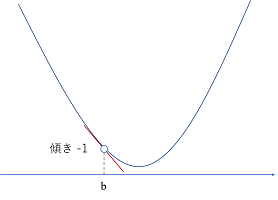
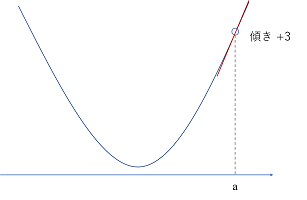
微分パートの推敲完了

diff --git a/source/source/notebooks/1_md.md b/source/source/notebooks/1_md.md
@@ -1,82 +1,80 @@
 # 機械学習に必要な数学の基礎
 
+この章では、ディープラーニングを含めた機械学習に必要な微分、線形代数、統計の3つについて、よく使う部分を完結に紹介します。
+
 
 
 ## 微分
 
-まず基礎数学編のはじまりとして、微分について学んでいく。微分は高校で習うが、結局実社会で使うことはほとんどなく、微分は何に使うのか？と不明確なまま終わってしまっている人も少なくないだろう。そこで、まずは機械学習との結びつきを紹介してから、その数式について解説していく。
+微分は高校で習いますが、社会で使うことはほとんどなく、微分は何に使うのかと不明確なまま終わってしまっている人も少なくないだろう。機械学習においては**パラメータ更新**の際に大きなカギとなる考え方であり、その理由について最初に知ってから、数式を理解していこう。
 
-### なぜ微分が必要か？
+### 微分はどこで使われているか
 
-微分は何に使えるか？と問うと何人の人が答えられるだろうか。受講生にこの質問を投げかけると手が上がるのは10%未満である。高校では全員が学ぶにもかかわらず、これは由々しき事態である。
-
-それでは、まず微分が何に使えるのかの質問の前に、微分は何が求まるのかを考えよう。高校の時には微分では何が求まると習っただろうか。その答えは「接線の傾き」である。
+「微分は何に使えるか」をここでは考えることにしよう。微分が何に使えるのかの質問の前に、**微分は何が求まるのか**をまず考えよう。高校の時には微分では何が求まると習ったかというと、その答えは**接線の傾き**である。数値も交えて具体的に見ていこう。
 
 <img src="images/1/01.png" height="200px">
 
-具体的に見ていこう。この図の関数において、$a$という点での接線の傾きというのは具体的にはこの赤い直線の傾きを指す。具体的な数値で考えるほうがわかりやすいためここでは傾き3としている。
+この図の関数において、$a$ の点における接線の傾きというのは赤い直線の傾きを指し、例えば、傾きが+3のようになっている。+3という値は例ですが、右肩上がりな直線の傾きは正の値になります。
 
 <img src="images/1/02.png" height="200px">
 
-例えば、この$b$の点においては、接線の傾きは右肩下がりであるため、負の値であり、傾き-1のようになっている。微分では、この各点における「+3」や「-1」といった傾きを求めることができるのである。
+そして、この $b$ の点においては、接線の傾きは右肩下がりであるため、接戦の傾きは負の値であり、傾き-1のようになっている。微分では、この各点における「+3」や「-1」といった傾きを求めることができます。
 
-それでは、本題に戻そう。この各点の傾きが求まったら何が嬉しいのだろうか。結局はこの問いに答えられなければ意味がないのである。正直傾きが求まると聞いたところで、使い道が浮かばない。それは当然である。なぜなら、何かを達成したいという目標がなければ、どれだけ良いツールがあったとしてもその使い道が明確にならないためである。
+それでは、本題に戻りましょう。この各点の接戦の傾きが求まると何に使えるのでしょうか。結局、傾きが求まると聞いたところで、使い道が浮かばないのではないでしょうか。
 
-機械学習ではどのような目標を達成するのであろうか。機械学習では、良い予測値を得たいということがゴールである。学習の際には教師データ$t$に対して、その予測値$y$が近いことが望まれる。そのため、その差分である $t-y$ が小さくなることが望ましい。ただし、$t-y$ を小さくしたいと考えれば、$y\rightarrow\infty$ とすれば小さくなるがそういう話ではなく、$t$と$y$の差を小さくしたいため、$(t-y)^{2}$ が小さくなることが望ましい。設定としては、$|t-y|$ でも良いが、$(t-y)^{2}$ の方が、数学的に取り扱いがしやすい。この $(t-y)^2$ のことを**二乗誤差**と呼ぶ。つまり、機械学習では、この二乗誤差を最も小さくできるようなパラメータ $w$ を求めたいというゴール設定となる。
+機械学習を使う場合、できるだけ真の値に近い良い予測値を得たいと思っています。学習の際には教師データ $t$ に対して、その予測値 $y$ がなるべく近い値であることが望まれます。そのために、その差分である $t-y$ が小さくなることが望ましいといえます。厳密には、$t-y$ を小さくしたいと考えれば、$y\rightarrow\infty$ とすれば $t-y$ は小さくなりますがそういう話ではなく、$t$ と $y$ の差を小さくしたいため、$|t-y|$ や $(t-y)^{2}$ が小さくなることが望ましいと考えられます。設定としては、$|t-y|$ でも良いのですが、$(t-y)^{2}$ の方が、数学的に取り扱いがしやすく、一般的にこちらが採用されます。この $(t-y)^2$ のことを**二乗誤差**と呼び、機械学習では、この二乗誤差を最も小さくできるように調整したいということがゴールとなります。
+
+そして、二乗誤差が最小となる点を求めたいと考え、その点での接線の傾きは正の値になるでしょうか。それとも、負の値になるでしょうか。答えはどちらでもなく、図の通り、誤差が最小となる点では、**接線の傾きが0**となります。つまり、接線の傾きを用いることで、**ある関数における最小（もしくは最大）となる点を求めることができる**と考えられるわけです。これが微分を学ぶ大きなモチベーションとなっています。コストを最小化したいや売り上げを最大化したいという要望は、ビジネスを含めたありとあらゆる現場で求められる課題設定であり、これらの最適な点を求めるために活躍するツールが微分である。そう考えると、微分を学ぶモチベーションが大きく湧いたのではないでしょうか。
 
 <img src="images/1/03.png" height="200px">
 
-そして、二乗誤差が最小となる点を求めたいと考え、その点での接線を見てみると、そこでは傾きが0となっていることがわかる。つまり、接線の傾きを求めることができるということは、ある関数における最小（もしくは最大）となる点を求めることができるのである。これが微分を使う大きな目的である。コストを最小化したいや売り上げを最大化したい。これらはビジネスの現場では当然のように考えられている課題であり、これらの最適な点を求めるために活躍するツールが微分である。
+### 2点間を通る直線の傾き
 
-いかがだろうか。微分が使われている問題設定がイメージできることで、微分を学ぶモチベーションが高まっていれば嬉しい。この例のように、機械学習を学ぶ上で、微分は切っても切れない関係にあるため、ぜひこの機会に習得していただきたい。
-
-### 中学校の数学
-
-微分を学ぶために、まず中学校の2点を通る直線の復習を行う。
+それでは、微分の原理を理解していくために、まずは中学校で習った下図に示す2点間を通る直線の傾き $a$ を求めてみましょう。
 
 <img src="images/1/04.png" height="200px">
-
-横軸が$x$で、縦軸が$f(x)$に対して、2点 ($x_{1}$, $f(x_{1})$), ($x_{2}, f(x_{2})$)を通る直線の傾き$a$を求める。これは中学校の時にならった以下の公式で求まる。
 $$
 傾きa = \dfrac{f(x)の変化量}{xの変化量}
 $$
-つまり、これを適用すると、
+中学校の時にならったこの考え方おり
 $$
-傾きa = \dfrac{f(x_{1}) - f(x_{2})}{x_{2}-x_{1}}
+a = \dfrac{f(x_{2}) - f(x_{1})}{x_{2}-x_{1}}
 $$
-となる。懐かしいなと思い出してもらえれば大丈夫である。これで中学の復習は完了で、これが微分の考え方の大半を占める。
+と求まります。懐かしいなと思い出してもらえる程度で大丈夫です。これだけの話ですが、これが意外と微分の考え方の大半を占めています。
 
-### 高校の数学
+### 1点での接線の傾き
 
-それでは、微分の最終系に近づけていく。そのためには、**極限**を知っておく必要がある。極限とは、$\lim$の下に書いた条件に近づけていく考え方である。
+それでは、中学校で習った内容からさらに接線の傾きまで求められるように考えていきましょう。そのためには、**極限**を知っておく必要があるため紹介します。極限とは、$\lim$ の下に書いた条件に値を近づけていく考え方です。例えば、
 $$
 \displaystyle \lim _{x\rightarrow 0}3x=3\times 0=0
 $$
-一見、$x=0$を代入しただけにしか見えないかも知れないが、点の「動き」を表したいときに有効な手段であり、こちらが微分でも登場する。
+のような計算です。一見、$x=0$を代入しただけにしか見えないかも知れませんが、点の**動き**を表現したいときに有効な手段であり、こちらが微分でも登場します。
+
+それでは、次の問題として、下図のある点 $x$ における接線の傾き$a$を求めていきましょう。今回は2点ではない、ある1点での接線の傾きです。
 
 <img src="images/1/05.png" height="200px">
 
-それでは、次の問題として、上図の$x$における接線の傾き$a$を求める。さて、ここで問題が生じる。接線の傾きを求めようにも1点では傾きを求めることができない。そこで、中学校の数学で考えた2点を通る直線と極限を組み合わせて考えてみる。
+さて、ここで問題が生じないでしょうか。接線の傾きを求めようにも先ほどまでの知識では1点だけでは傾きを求めることができません。そこで、さきほど考えた2点を通る直線と極限を組み合わせて、突破できないか考えてみましょう。
 
 <img src="images/1/06.png" height="200px">
 
-$x$から$h$だけ離れた点 $x+h$ を考え、この2点を通る直線の傾きを求める。また、$h \rightarrow 0$ とすれば、理論上2点が1点となり、1点での接線を求めることができる。これを数式にすると以下のようになる。
+$x$ から $h$ だけ離れた点 $x+h$ を考え、この2点を通る直線の傾きを求めることとします。これでは先ほどまでの2点間を通る直線の傾きと変わらないのですが、$h \rightarrow 0$ のようにすれば、理論上2点が1点となり、1点での接線として考えることができ、直線の傾きは
 $$
 \begin{aligned}
-f'\left( x\right) &=\lim _{h\rightarrow 0}\dfrac {f\left( x+h\right) -f\left( x\right) }{\left( x+h\right) -x}\\
+a &=\lim _{h\rightarrow 0}\dfrac {f\left( x+h\right) -f\left( x\right) }{\left( x+h\right) -x}\\
 &=\lim _{h\rightarrow 0}\dfrac {f\left( x+h\right) -f\left( x\right) }{h}\\
  &=\lim _{h\rightarrow 0}\dfrac {f\left( x+h\right) -f\left( x\right) }{h}\\
 \end{aligned}
 $$
-$f'(x)$は関数$f(x)$の微分を表している。この微分で得られた関数のことを**導関数**と呼ぶ。また、微分は $(\cdot)'$ と記述しているが、
+となります。この式が一般的に微分という言葉で認識されていることが多いですが、厳密には**導関数**と呼び、$f'(x)$ で表されます。導関数を求めることを**微分する**といいます。また、記号の使い方として、
 $$
 (\cdot)' = \dfrac{d}{dx}(\cdot)
 $$
-も同じであり、今後は主に右辺の書き方が多くなってきて複雑に見えるが、難しいものではないため安心してほしい。このように、中学校の数学と極限の考え方を合わせるだけで微分を理解することができる。
+のように、どちらも同じです。今後は主に右辺の書き方が多くなってきて複雑に見えるかもしれませんが、本日的には難しいものではありません。このように、中学校までに習った数学と極限の考え方を組み合わせるだけで微分の基本を理解することができました。
 
 ### 微分の公式
 
-機械学習では、以下の3つの微分の公式だけ把握しておけば、大抵の計算を行うことができる。
+微分にはいくつか覚えておくと便利な公式があります。特に、機械学習を勉強し始める最初の段階では、まず以下の3つの公式だけである程度計算をスムーズに進めることができます。
 $$
 \begin{aligned}
 \left( 1\right) ^{'}&=0\\
@@ -84,12 +82,12 @@ $$
 \left( x^{2}\right) ^{'}&=2x
 \end{aligned}
 $$
-これらの微分の公式をこれからよく使うため、暗記しておくことが望ましい。また、特殊な関数の微分が出てきた際には追って解説を行う。この3つの微分の公式の導出を行う。
+これらの微分の公式をこれからよく使うため、暗記しておきましょう。これらは公式として覚えてしまえばよいのですが、ここでは勉強もかねてこの公式を導いてみましょう。数式に対して、あまり余裕がない段階であれば公式だけ覚えて読み飛ばしていただいても構いません。
 
-まずは、$f(x)=1$のときである。$f(x)=1$より、$f(x+h)=1$となる。この考え方に多少癖があるが、$f(x)$のときに$x$となっている箇所が f(x+h) のときに $x+h$ へと変わる。今回は $f(x)=1$ より、$x$ が出てこなかったため、$f(x+1)$ も何も変わらず 1 なのである。このとき、
+まずは、$f(x)=1$のときを考えましょう。$f(x)=1$より、$f(x+h)=1$となります。この考え方に多少癖がありますが、考え方のヒントとしては $f(x)$のときに $x$ となっている箇所が $f(x+h)$ のときに $x+h$ へと変わります。今回は $f(x)=1$ より、$x$ が出てこなかったため、$f(x+h)$ も何も変わらず 1 と考えられるわけです。さて、導関数の計算を行うと、
 $$
 \begin{aligned}
-f^{'}(x)&=\left( 1\right) ^{'}\\
+f'(x)&=\left( 1\right)'\\
 &=\lim _{h\rightarrow 0}\dfrac {f\left( x+h\right) -f\left( x\right) }{h}\\
 &=\lim _{h\rightarrow 0}\dfrac {1-1}{h} \\
 &=\lim _{h\rightarrow 0}\dfrac {0}{h}\\
@@ -97,43 +95,37 @@ f^{'}(x)&=\left( 1\right) ^{'}\\
 &=0
 \end{aligned}
 $$
-が得られる。
+が得られました。
 
-つぎに、$f(x)=x$のときは、$f(x+h) = x+h$ となるため、
+つぎに、$f(x)=x$ のときを考えてみましょう。$f(x+h) = x+h$ となり、
 $$
 \begin{aligned}
-f'\left( x\right) &=\left( x\right) ^{'}\\
+f'\left( x\right) &=\left( x\right)'\\
 &=\lim _{h\rightarrow 0}\dfrac {f\left( x+h\right) -f\left( x\right) }{h}\\
-&=\lim _{h\rightarrow 0}\dfrac {\left( x+h\right) -x}{h}=\lim _{h\rightarrow 0}\dfrac {h}{h}\\
+&=\lim _{h\rightarrow 0}\dfrac {\left( x+h\right) -x}{h}\\
+&=\lim _{h\rightarrow 0}\dfrac {h}{h}\\
 &=\lim _{h\rightarrow 0}1\\
 &=1\end
 {aligned}
 $$
-が得られる。
+が得られました。
 
-最後に、$f(x) = x^{2}$ の場合、$f(x+h) = (x+h)^{2}$ である。よくある間違いとして、$f(x+h) = x^{2} + h$ や $f(x+h) = x^{2} + h^{2}$ を見かけるが、$f(x) = (x)^{2}$ と考えると、$x$ の部分が $x+h$ に代わるため、$f(x+h) = (x+h)^{2}$ である。このとき、
+最後に、$f(x) = x^{2}$ の場合、$f(x+h) = (x+h)^{2}$ となります。よくある間違いとして、$f(x+h) = x^{2} + h$ や $f(x+h) = x^{2} + h^{2}$ のように考えてしまう人を見かけますが、$f(x) = (x)^{2}$ と考えると、$x$ の部分が $x+h$ に代わるため、$f(x+h) = (x+h)^{2}$ です。このとき、
 $$
 \begin{aligned}
-f\left( x\right) &=\left( x^{2}\right) ^{'}\\
+f\left( x\right) &=\left( x^{2}\right)'\\
 &=\lim_{h\rightarrow 0}\dfrac {f{\left( x+h\right) }-f\left( x\right) }{h}\\
 &=\lim _{h\rightarrow 0}\dfrac {\left( x+h\right) ^{2}-x^{2}}{h}\\
 &=\lim _{h\rightarrow 0}\dfrac {\left( x^{2}+2xh+h^{2}\right) -x^{2}}{h}\\
 &=\lim _{h\rightarrow 0}\dfrac {2xh+h^{2}}{h}\\
 &=\lim _{h\rightarrow 0}\dfrac {\left( 2x+h\right) h}{h}\\
-&=\lim _{h\rightarrow 0}2x\\
+&=\lim _{h\rightarrow 0}\ (2x + h)\\
 &=2x
 \end{aligned}
 $$
-が得られる。
+が得られ、3つの公式を導くことができました。
 
-もう一つ、微分で便利な性質として**線形性**を紹介しておく。
-$$
-\begin{aligned}
-(af(x))' &= af'(x)\\
-(af_{1}(x) + bf_{2}(x))' &= af_{1}'(x) + bf_{2}'(x)
-\end{aligned}
-$$
-2つ目の式は1つ目の式も包含しているが、要するに微分する前に定数倍するものと微分してから定数倍は同じという性質、それから足し算してから微分するものと、それぞれを微分してから足し算をすることが同じという２つの性質がある。これらの導出を行っても良いが、まずは具体的な計算がわかりやすいように、2つの例題を見ていく。
+それでは、次の２つの例題を考えながら、具体的な微分の計算に慣れていきましょう。
 $$
 \begin{aligned}
 ( 3x^{2})'&=3\times (x^{2})'\\
@@ -141,72 +133,51 @@ $$
 &=6x
 \end{aligned}
 $$
-微分の線形性を使用して、定数の3を微分の外側に出して計算できる。
+この $(3x^{2})' = 3 \times (x^{2})'$ の部分に注目してください。微分では、定数項は微分の演算の外側に出すことができます。また、次の例題でも新しい特性があります。
 $$
 \begin{aligned}
-\left( 3x^{2}+4\right)^{'}&=\left( 3x^{2}\right) '+\left( 4\right)^{'}\\
-&=3\times \left( x^{2}\right)^{'}+4\times \left( 1\right)^{'}\\
+\left( 3x^{2}+4\right)'&=\left( 3x^{2}\right)'+\left( 4\right)'\\
+&=3\times \left( x^{2}\right)'+4\times \left( 1\right)'\\
 &=3\times 2x+4\times 0\\
 &=6x
 \end{aligned}
 $$
-このように、足し算の場合は、それぞれの微分に分割して計算を進めることができる。この微分の持つ線形性の性質は計算を細切れにして楽に進めることができ、これからの計算に大きく貢献することになる。
-
-それでは、使うという観点では必ずしも必要ではないが、線形性の導出を行う。
-$$
-\begin{aligned}
-\left( af\left( x\right) \right) '
-&=\lim_{h\rightarrow 0} \dfrac {af\left( x+h\right) -af\left( x\right) }{h}\\
-&=\lim _{h\rightarrow 0}a\dfrac {f\left( x+h\right) -f\left( x\right) }{h}\\
-&=a\lim_{h\rightarrow 0}\dfrac {f{\left( x+h\right) }-f\left( x\right) }{h}\\
-&=af\left( x\right)
-\end{aligned}
-$$
-
-$$
-\begin{aligned}
-(af_{1}(x) +bf_{2}(x))^{'}
-&=\lim_{h\rightarrow 0}\dfrac {af_{1}(x+h) +bf_{2}(x+h) -af_{1}(x) +bf_{2}(x) }{h}\\
-&=\lim_{h\rightarrow 0}\left\{ \dfrac {af_{1}(x+h) -af_{1}(x) }{h}+\dfrac {bf_{2}\left( x+h\right) -bf_{2}(x)}{h}\right\} \\
-&=a\lim_{h\rightarrow 0}\dfrac {f_{1}\left( x+h\right) -f_{1}\left( x\right) }{h}+b\lim _{h\rightarrow0}\dfrac {f_{2}\left( x+h\right) -f_{2}\left( x\right) }{h}\\
-&=af_{1}' \left( x\right) +bf_{2}'\left( x\right)
-\end{aligned}
-$$
+この例題では、$\left( 3x^{2}+4\right)'=\left( 3x^{2}\right)'+\left( 4\right)'$ のように、全体の和をとった後に微分の演算を行っても、それぞれで微分の演算を行った後に和の計算をしても同じとなっています。これは微分の**線形性**と呼ばれる性質であり、気になった方は調べてみてください。ポイントとしては、定数項は演算の外に出すことができて、それぞれの項を微分した後に和をとっても良いということです。この性質は計算を楽にできるところに大きく貢献してくれます。
 
 ### 合成関数の微分
 
-実際に機械学習のアルゴリズム内で登場する関数は複雑なものも多い。具体的には、
+機械学習のアルゴリズムで登場する関数は複雑なものも多く、その結果、微分の計算も複雑になりがちです。具体的には、
 $$
 \left\{ (3x + 4)^{2} \right\}'
 $$
-のように、$3x+4$ の内側の部分と $(\cdot)^{2}$ の外側の部分の2つで構成されているような場合である。この微分はすべて展開してからそれぞれ微分をすることもできるが、これが$(\cdot)^{3}$ や $(\cdot)^{4}$ となってくると、展開してから微分といった方法が現実的でなくなってくる。そのときに役に立つものが**合成関数の微分**である。
+のように、$3x+4$ の内側の部分と $(\cdot)^{2}$ の外側の部分で構成されているような場合もあり、展開してからそれぞれ微分を計算してもよいのですが、これが3乗や4乗となってくると現実的ではなくなってこないでしょうか。この時に役に立つ考え方が**合成関数の微分**です。
 
-内側の関数を $u = (3x+4)$ とおくと、
+まず内側の関数を $u = (3x+4)$ とおくと、
 $$
 \left\{ (3x + 4)^{2} \right\}' = (u^{2})'
 $$
-となる。ここで、$(\cdot)'$ をもう少し厳密に考える必要が出てくる。いまは、$x$ と $u$ の2つの変数が登場しており、$(\cdot)'$ では、$x$ で微分しているのか $u$ で微分しているのかわからない。そこで、厳密に記述すると、
+とします。ここで、$(\cdot)'$ をもう少し厳密に考える必要が出てくる。いまは、$x$ と $u$ の2つの変数が登場しており、$(\cdot)'$ では、$x$ で微分しているのか $u$ で微分しているのかの区別がつきません。そこで、多少複雑に見えますが、微分する変数を厳密に記述すると、
 $$
 \begin{aligned}
 \left\{ (3x + 4)^{2} \right\}' &= \dfrac{d}{dx} \left\{ (3x + 4)^{2} \right\} \\
-&=  \dfrac{d}{dx} u^2 \\
-&=  \dfrac{d}{dx} f(u)
+&= \dfrac{d}{dx} (u^2) \\
+&=  \dfrac{d}{dx} f(u) \\
 \end{aligned}
 $$
-となり、$u$ の関数に対して、$x$ で微分してしまっていることがわかる。ここで、合成関数の微分
+となり、$u$ の関数 $f(u) = u^{2}$ に対して、$x$ で微分してしまっていることがわかります。そこで、
 $$
 \begin{aligned}
 \dfrac{df(u)}{dx} = \dfrac{du}{dx} \dfrac{df(u)}{du}
 \end{aligned}
 $$
-を適用することができる。右辺と左辺は分数として約分してしまえば同じである。つまり、合成関数の計算は内側の微分と外側の微分をそれぞれ行い、その結果を掛け合わせれ良い。それぞれの微分の計算は
+のように右辺と左辺は分数として約分してしまえば同じであるといった考え方を適用することができます。つまり、合成関数の計算は内側の微分と外側の微分をそれぞれ行い、その結果を掛け合わせれ良いわけです。それぞれの微分の計算は
 $$
 \begin{aligned}
  \dfrac{du}{dx} &= \dfrac{d}{dx} (3x+4) = 3 \\
  \dfrac{df(u)}{du} &= \dfrac{d}{du} u^{2} = 2u \\
 \end{aligned}
 $$
-となり、これより、
+となります。これより、
 $$
 \begin{aligned}
 \dfrac{df(u)}{dx} &= \dfrac{du}{dx} \dfrac{df(u)}{du} \\
@@ -215,17 +186,17 @@ $$
  &= 6(3x+4)
 \end{aligned}
 $$
-が得られる。数式こそ複雑に見えるが、内側と外側をそれぞれ微分して掛け合わせるだけであるため、実際の計算は慣れると簡単に行える。本書でも合成関数の微分を使用する場面が何度も登場し、これからは当たり前の計算のひとつとして使っていくためよく覚えておいてほしい。
+が得られます。数式こそ多少複雑に見えますが、内側と外側をそれぞれ微分して掛け合わせるだけであるため、実際の計算は慣れると簡単に行えます。この合成関数の微分を使用する場面が何度も登場するため、この計算方法をしっかりと覚えておきましょう。
 
 ### 偏微分
 
-微分最後のトピックとして、偏微分を紹介する。偏微分と聞くと難しそうと思われがちであるが、まったく難しいものではなく、多変数関数の微分のことである。多変数関数とは？となると思うが、機械学習では、1つの入力変数$x$から出力変数$y$を予測するケースは稀であり、基本的には、複数の入力変数$x_{1}$, $x_{2}$, $\ldots$, $x_{M}$ から出力変数 $y$ を予測することが多い。例えば、家賃を予測する場合、部屋の広さだけで予測するよりも、駅からの距離や犯罪発生率などを考慮した方が予測の性能は高まりそうだと考えれば、複数の入力変数を使用する必要がある。多変数 $x_{1}$, $x_{2}$, $\ldots$, $x_{M}$ を考慮した多変数関数 $f(x_{1}, x_{2}, \ldots, x_{M})$ では、各変数で微分することを偏微分と呼び、以下のようにあらわす。
+微分最後のトピックとして、**偏微分**を紹介します。偏微分は多変数関数の微分です。機械学習では、1つの入力変数 $x$ から出力変数 $y$ を予測するケースは稀であり、基本的には、複数の入力変数 $x_{1}$, $x_{2}$, $\ldots$, $x_{M}$ を用いて出力変数 $y$ を予測します。例えば、家賃を予測する場合、部屋の広さだけで予測するよりも、駅からの距離や犯罪発生率などを考慮した方が予測の性能は高まりそうだと考えられます。多変数 $x_{1}$, $x_{2}$, $\ldots$, $x_{M}$ を考慮した多変数関数 $f(x_{1}, x_{2}, \ldots, x_{M})$ では、各変数で微分することを偏微分と呼び、
 $$
 \dfrac{\partial}{\partial x_{m}} f(x_{1}, x_{2}, \ldots, x_{M})
 $$
-大雑把には、$d$ が $\partial$ に変わっただけである。$d$ と $\partial$ の違いは、$d$ の場合、その微分する変数しか出てこない関数での微分であり、$\partial$ の場合は、それ以外の変数も含んでいる関数に対する微分である。つまり、$\partial$ は関数全体の中の一部分にだけ着目して微分していることになる。そのため、偏った微分として、「偏」微分と呼ばれている。計算方法は至って単純であり、$\dfrac{\partial}{\partial x_{m}} $の場合は $x_{m}$ 以外は定数と考えて、$x_{m}$ のみ着目して微分を行う。
+のように表します。大雑把には、$d$ が $\partial$ に変わっただけです。しかも、計算方法は至って単純であり、$\dfrac{\partial}{\partial x_{m}} $の場合は $x_{m}$ 以外は定数と考えて、$x_{m}$ のみ着目して微分を行います。
 
-それでは、例題で具体的な計算の流れを確認していく。
+難しい理論はさておき、例題で具体的な計算の流れを確認していきましょう。
 $$
 \begin{aligned}
 \dfrac {\partial }{\partial x_{1}}\left( 3x_{1}+4x_{2}\right) &=\dfrac {\partial }{\partial x_{1}}\left( 3x_{1}\right) +\dfrac {\partial }{\partial x_{1}}\left( 4x_{2}\right) \\
@@ -234,15 +205,9 @@ $$
 &= 3
 \end{aligned}
 $$
-基本的には微分と同じ性質が適用されるため、それぞれの微分に分解できたり、定数は外に出すことができる線形性を利用できる。あとは、今回のケースでは、$x_{1}$ にだけ着目するため、$x_{2}$ ですら定数として扱うことを把握しておけば上記の計算の流れが理解できるはずである。
+基本的には微分と同じ線形性の性質が適用できます。あとは、今回のケースでは、$x_{1}$ にだけ着目するため、$x_{2}$ ですら定数として扱うことを把握しておけば上記の計算の流れが理解できるはずです。これが偏微分であり、参考書にはここからさらに全微分の話に入っていくことが多いですが、ひとまずここまでの計算の方法を理解しておけば、この後の計算は理解することができるはずです。
 
-これが偏微分であり、参考書にはここからさらに全微分の話に入っていくことが多いが、ひとまずここまでの計算の方法を理解しておけば、この後の計算は理解することができる。
-
-
-
-
-
-## 線形代数 ~基礎編~
+## 線形代数
 
 ### 線形代数は何に役立つのか
 
